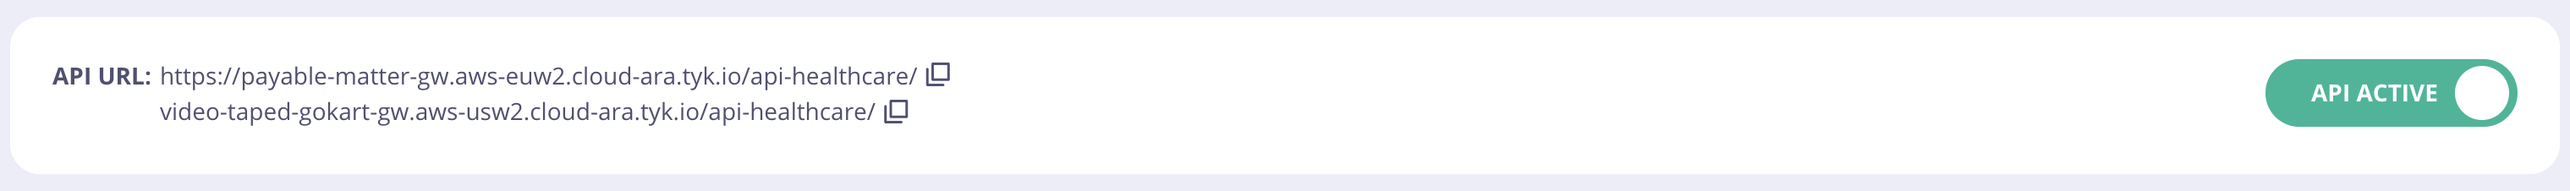
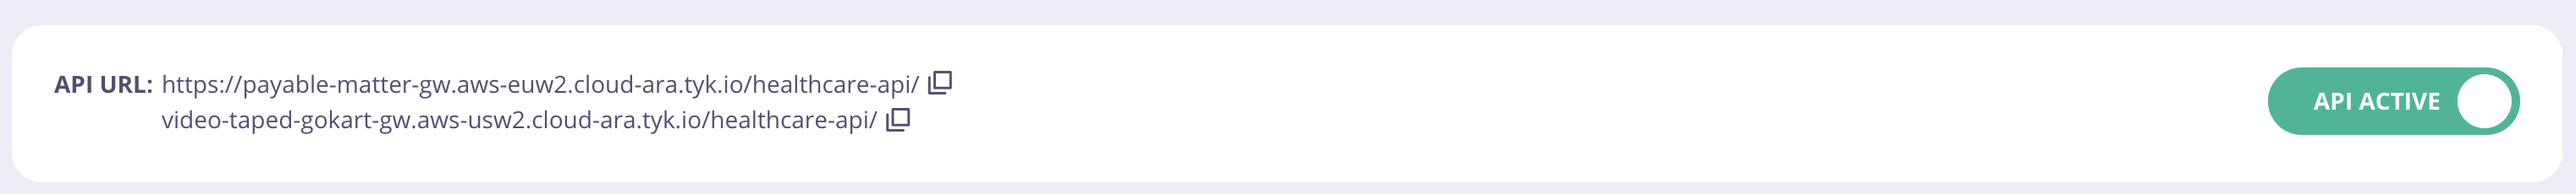
updated examples of edge gateways

Changed region(s): [[0.0, 0.3097, 0.3713, 0.4956], [0.0619, 0.5265, 0.3713, 0.6814], [0.8664, 0.3097, 0.9901, 0.7124]]

diff --git a/tyk-docs/content/advanced-configuration/manage-multiple-environments/with-tyk-on-premises.md b/tyk-docs/content/advanced-configuration/manage-multiple-environments/with-tyk-on-premises.md
@@ -23,7 +23,7 @@ Setting up a gateway to be a shard, or a zone, is very easy. All you do is tell 
 ...
 "db_app_conf_options": {
   "node_is_segmented": true,
-  "tags": ["internal", "node-1"]
+  "tags": ["private-gw", "edge"]
 },
 ...
 ```
@@ -70,7 +70,7 @@ Also, for every Gateway selected, there will be an API URL presented at the top 
 In your API definition, add a tags section to the root of the API Definition:
 
 ```{.copyWrapper}
-"tags": ["internal"]
+"tags": ["private-gw"]
 ```
 
 This will also set the tags for the API and when API requests are made through this Gateway, these tags will be transferred in to the analytics data set.

diff --git a/tyk-docs/content/shared/dashboard-config.md b/tyk-docs/content/shared/dashboard-config.md
@@ -728,14 +728,14 @@ List of Edge Gateways, that will be displayed in the Dashboard UI, so that you c
 ```
   "edge_endpoints": [
     {
-      "name": "US West",
+      "name": "Private Gateway",
       "endpoint": "https://payable-matter-gw.aws-euw2.cloud-ara.tyk.io",
-      "tags": ["edge", "aws-eu-west-2"]
+      "tags": ["edge", "private-gw"]
     },
     {
-      "name": "EU West",
+      "name": "Public Gateway",
       "endpoint": "video-taped-gokart-gw.aws-usw2.cloud-ara.tyk.io",
-      "tags": ["edge", "aws-us-west-2"]
+      "tags": ["edge", "public-gw"]
     }
   ]
 ```
